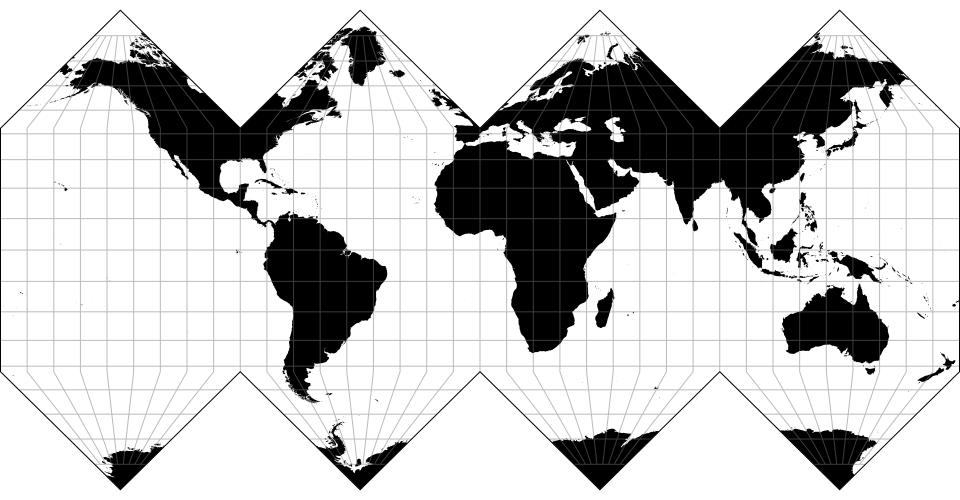
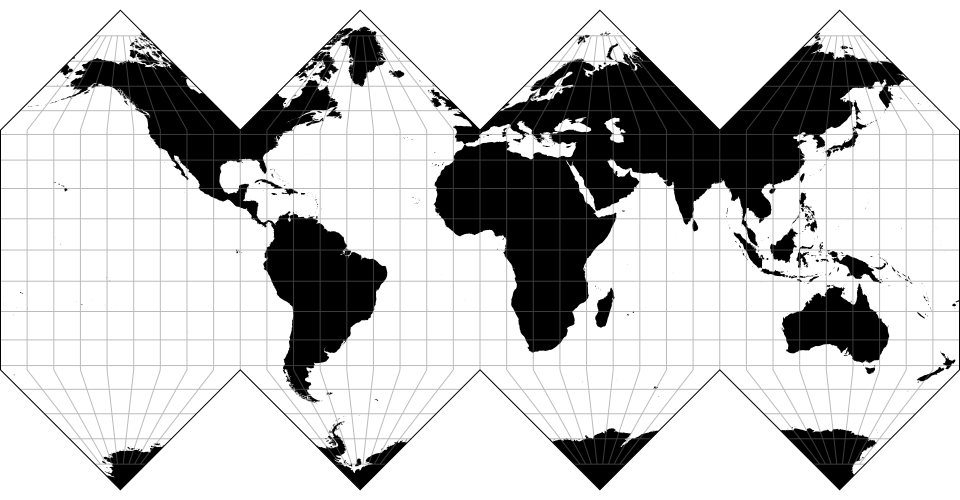
Healpix angle with the formula from https://fits.gsfc.nasa.gov/wcs/mhg_20050615.pdf
https://github.com/d3/d3-geo-projection/pull/172#issuecomment-498143416

diff --git a/src/healpix.js b/src/healpix.js
@@ -2,9 +2,10 @@ import {range} from "d3-array";
 import {geoStream, geoProjectionMutator as projectionMutator} from "d3-geo";
 import {collignonRaw} from "./collignon";
 import {cylindricalEqualAreaRaw} from "./cylindricalEqualArea";
-import {abs, epsilon, floor, max, min, pi, radians, sqrtPi, tau} from "./math";
+import {abs, asin, degrees, epsilon, floor, max, min, pi, radians, sqrtPi, tau} from "./math";
 
-var healpixParallel = 41 + 48 / 60 + 37 / 3600, // for K=3; TODO automate
+var K = 3,
+    healpixParallel = asin(1 - 1 / K) * degrees,
     healpixLambert = cylindricalEqualAreaRaw(0);
 
 export function healpixRaw(H) {
